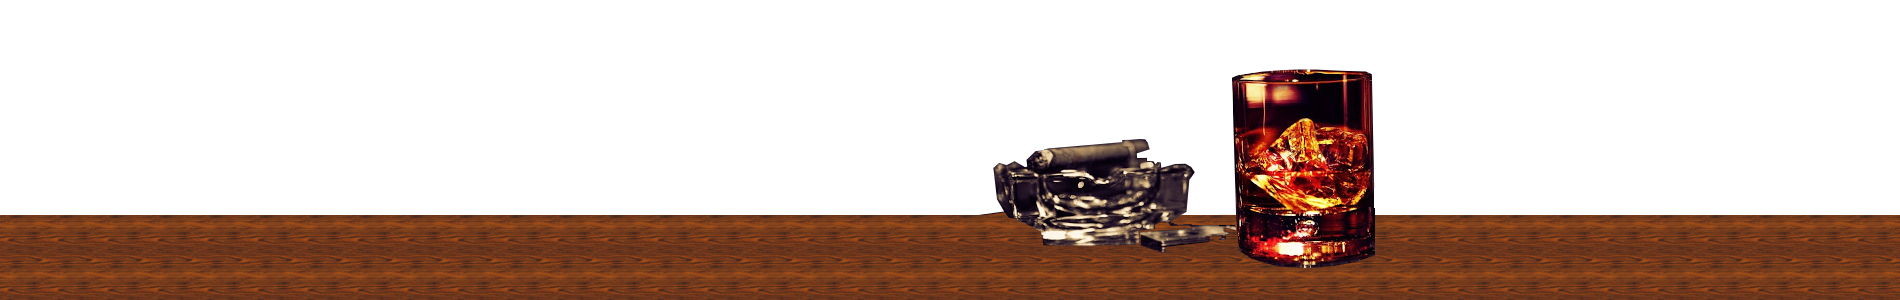
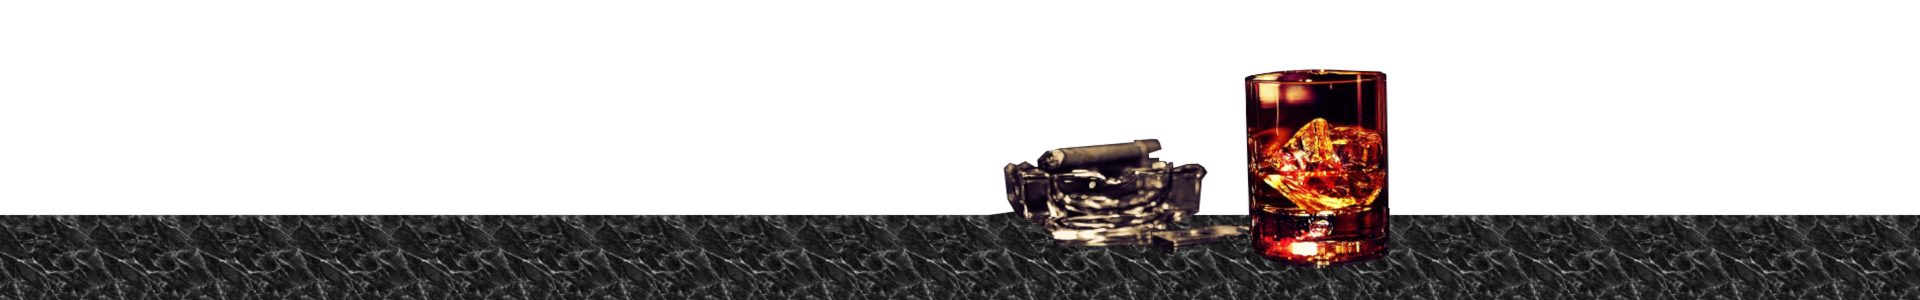
1

Changed region(s): [[0.0, 0.42, 1.0, 1.0], [0.6521, 0.24, 0.7142, 0.27]]

diff --git a/src/components/game/GameScreen.js b/src/components/game/GameScreen.js
@@ -64,9 +64,12 @@ const ProfilePicture = styled.div`
 `;
 
 const BottomTable = styled.div`
+  position: absolute;
+  top: 70%;
   width: 100%;
   height: 100%;
-  background: url('https://raw.githubusercontent.com/sopra-fs21-group-03/Client/master/src/Tischkanteready.png'); 
+  margin-top: 0;
+  background: url('https://raw.githubusercontent.com/sopra-fs21-group-03/Client/master/src/whiskeykantefertigmuster1.png'); 
 `;
 
 //Normal PokerScreen
@@ -763,6 +766,7 @@ class GameScreen extends React.Component {
                             </LeaveTableButton>
                         </LeaveTableContainer>
                     </LowerContainer>
+                    <BottomTable></BottomTable>
                     {this.myselfUser.username == this.userOnTurn.username ?
                         (<BottomContainer bordercolor="red">
                             <PlayerInfoContainer
@@ -775,7 +779,6 @@ class GameScreen extends React.Component {
                             </ProfileCircle>
                         </BottomContainer>) :
                         (<BottomContainer bordercolor="white">
-                            <BottomTable></BottomTable>
                             <PlayerInfoContainer
                                 top="50%" left="55%" width="30%" height="80%" color="white">
                                 {this.displayUser(this.myselfUser)}

diff --git a/src/views/design/GameScreenStyle.js b/src/views/design/GameScreenStyle.js
@@ -487,7 +487,7 @@ export const LowerContainer = styled.div`
 `;
 
 export const BottomContainer = styled.div`
-background-color: grey;
+background-color: transparent;
   margin: 0;
   position: absolute;
   top: 95%;
